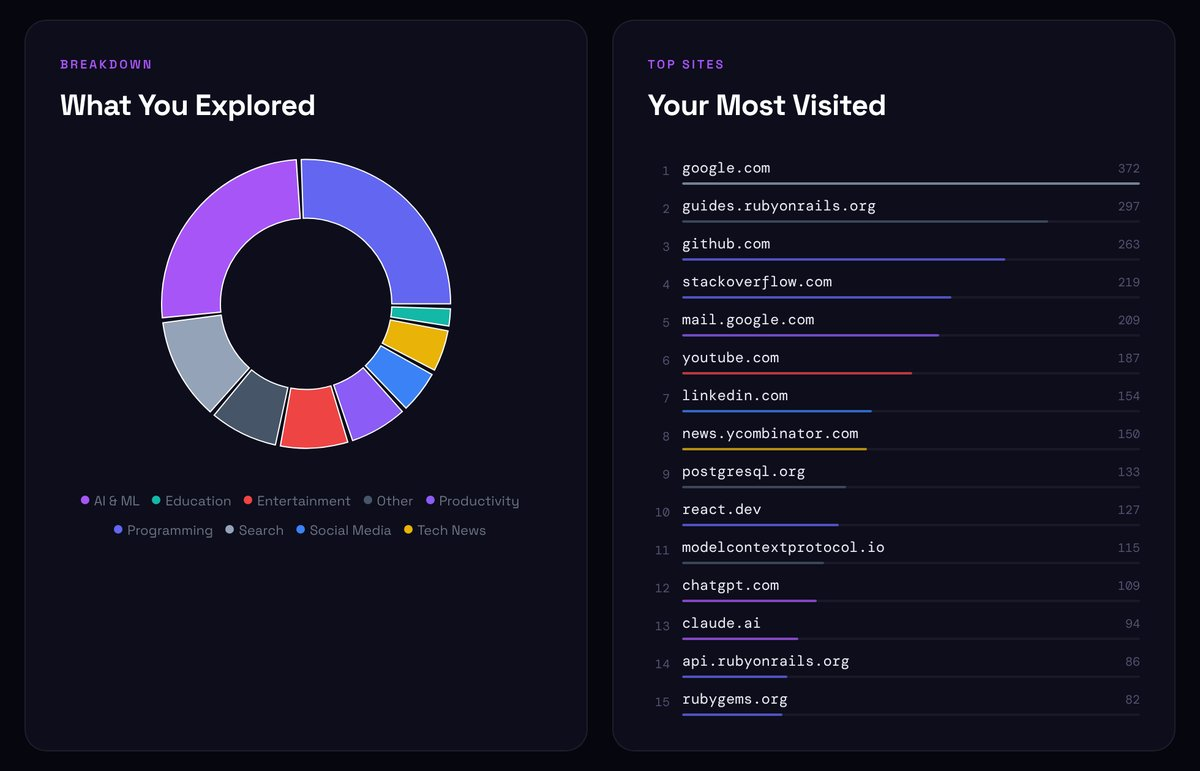
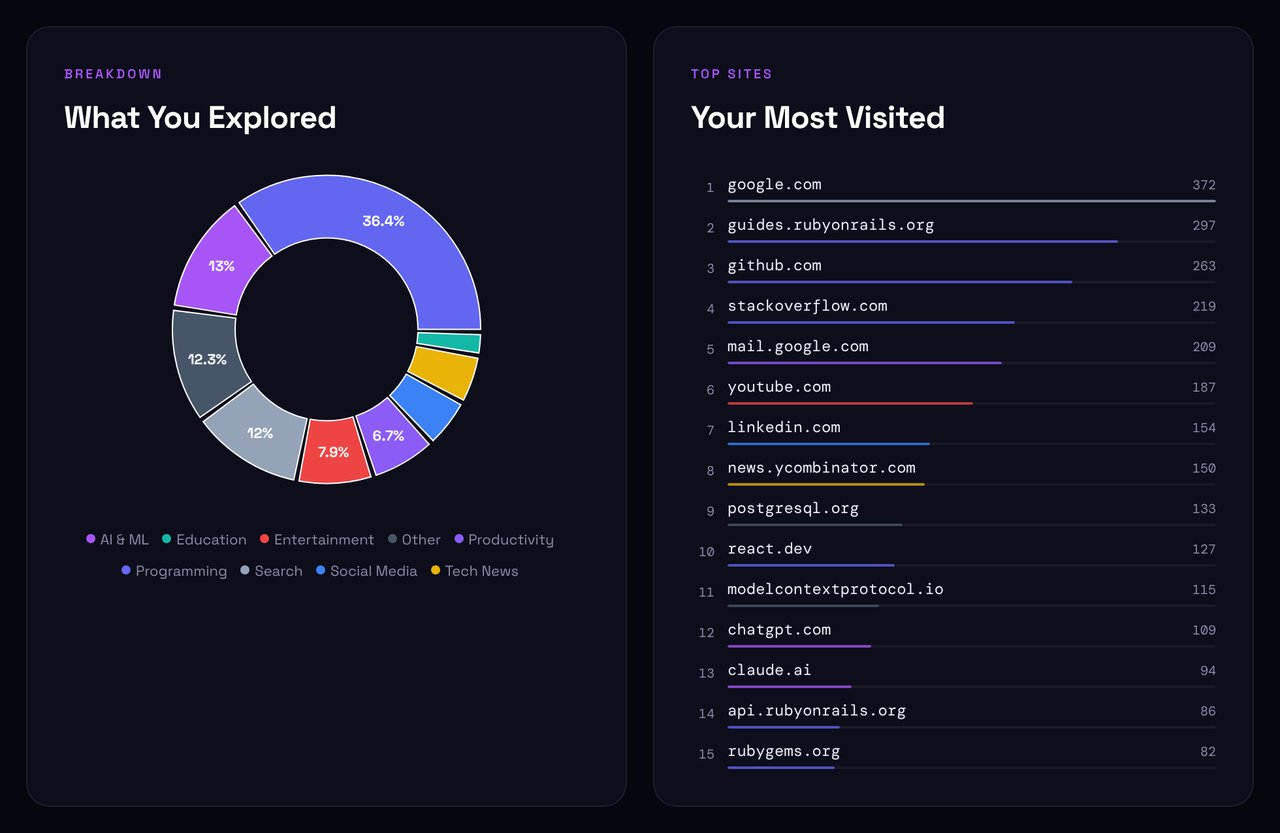
docs: refresh README screenshots and add new feature shots
Retake upload, wrapped, explored, rhythm and universe at 1280 px from the
sample data (knowledge map now keeps every topic in view), and add
then-vs-now, the exported persona card and a 375 px mobile shot. List
friendly errors and the test suite under Features.

Refs: https://app.clickup.com/t/14ypx623fje

diff --git a/README.md b/README.md
@@ -10,11 +10,15 @@ This repo is the **React frontend**. The analysis happens in the Rails API: [bro
 
 ## Screenshots
 
-| Upload | What you explored |
+| Upload | Then vs now |
 |---|---|
-| ![Upload page](docs/screenshots/upload.jpg) | ![Topic breakdown and most visited sites](docs/screenshots/explored.jpg) |
-| **Browsing rhythm (day × hour heatmap)** | **Knowledge map** |
-| ![Heatmap](docs/screenshots/rhythm.jpg) | ![Topic graph](docs/screenshots/universe.jpg) |
+| ![Upload page](docs/screenshots/upload.jpg) | ![Last 30 days compared with the 30 days before](docs/screenshots/then-vs-now.jpg) |
+| **What you explored** | **Browsing rhythm (day × hour heatmap)** |
+| ![Topic breakdown and most visited sites](docs/screenshots/explored.jpg) | ![Heatmap](docs/screenshots/rhythm.jpg) |
+| **Knowledge map** | **Persona card (downloaded PNG)** |
+| ![Topic graph](docs/screenshots/universe.jpg) | ![1080×1350 persona card image](docs/screenshots/persona-card.jpg) |
+| **Mobile (375 px)** | |
+| ![Results page on a phone](docs/screenshots/mobile-results.jpg) | |
 
 > Screenshots use the synthetic sample file from the API repo (`sample/sample_history.json`), not real browsing data.
 
@@ -32,6 +36,8 @@ This repo is the **React frontend**. The analysis happens in the Rails API: [bro
 - **Large files:** big uploads are analysed in the background; `/analyses/:id` shows a processing screen and polls until the report is ready
 - **Share links:** "Share my report" creates a public `/r/:token` page with aggregated stats only (no URLs, titles, searches or site names), which you can delete at any time
 - **Accessible and responsive:** works from 375 px phones up, keyboard friendly (skip link, visible focus), WCAG AA contrast, and every chart has a text alternative
+- **Friendly errors:** unsupported or empty files, oversized uploads and rate limits get a plain-English message instead of a crash
+- **Tested:** Vitest + React Testing Library suite (pages, period comparison, persona image, error copy, skip link), run with lint and the build in CI
 
 ## Tech stack
 
